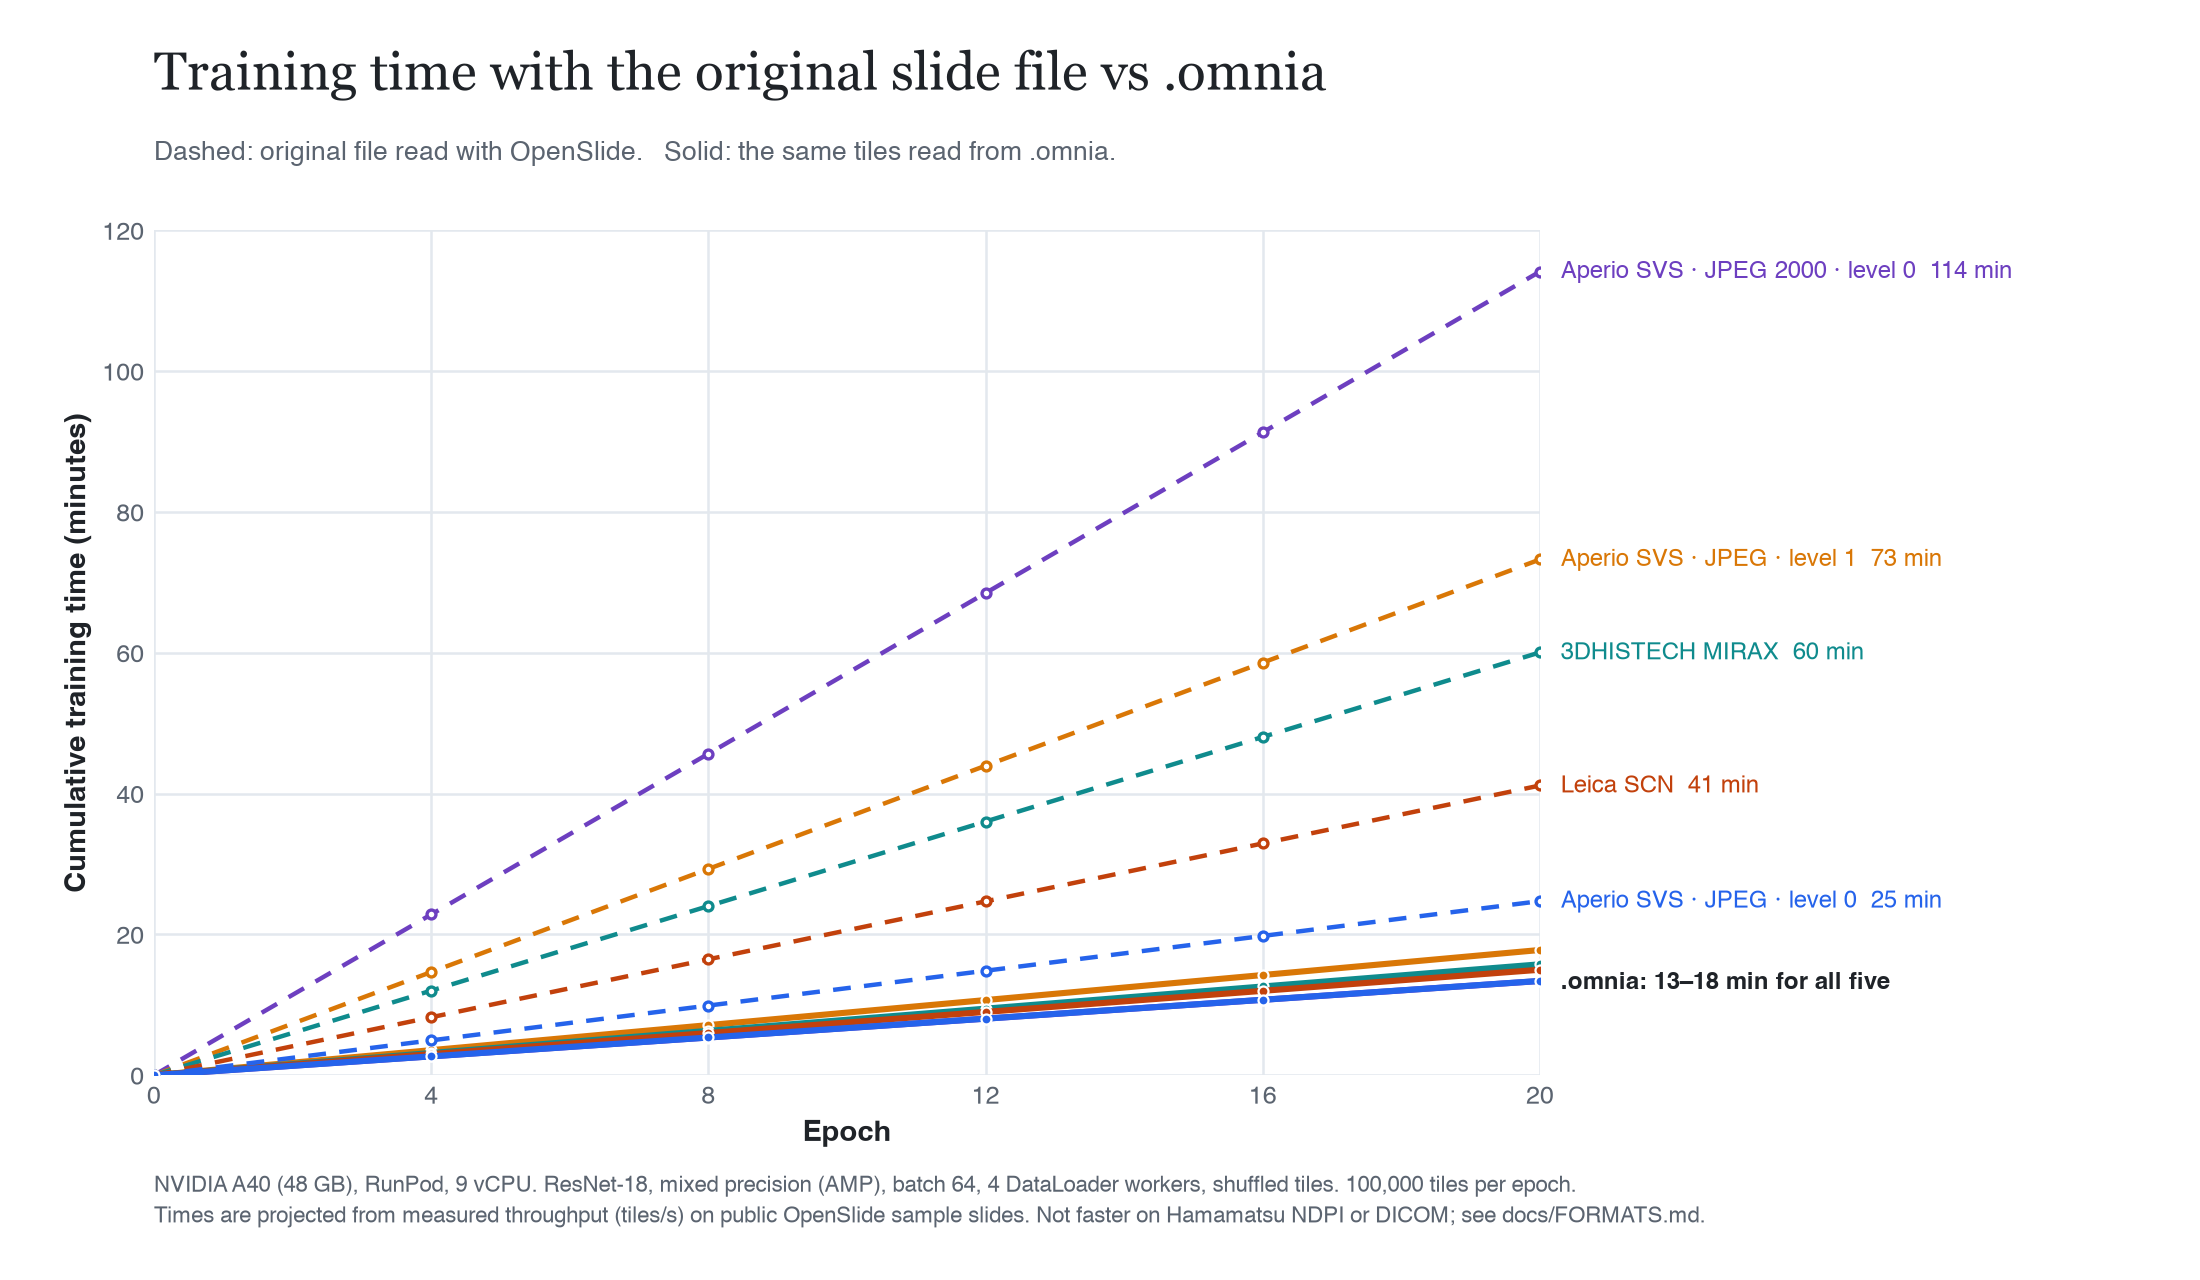
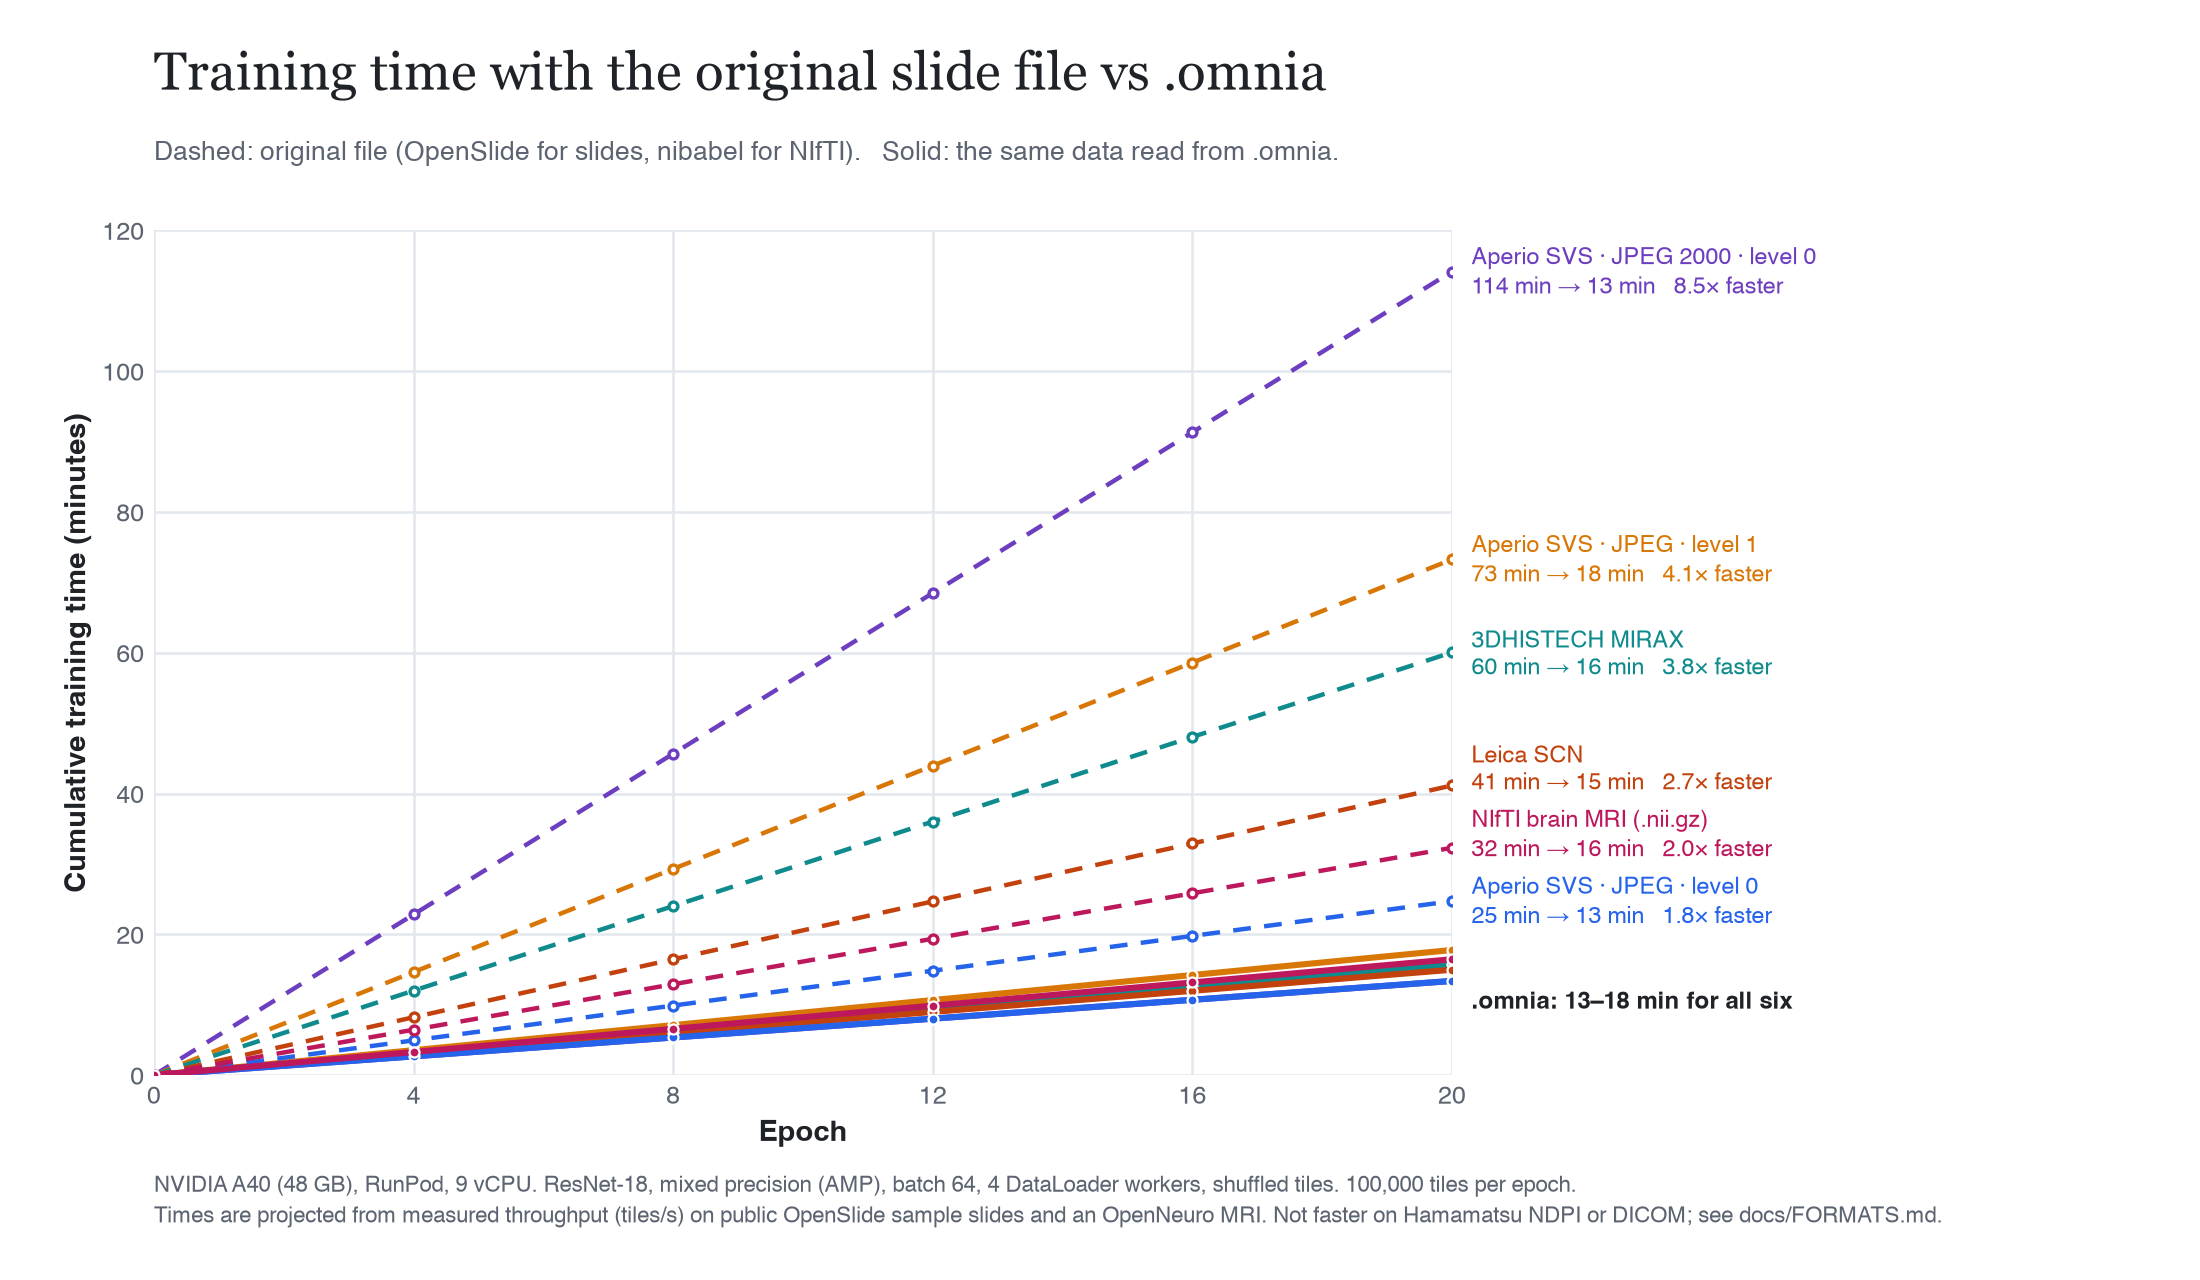
Epoch charts: x-faster labels, time taken, NIfTI row, DICOM/NIfTI read-speed chart

diff --git a/benchmarks/make_epoch_charts.py b/benchmarks/make_epoch_charts.py
@@ -33,6 +33,13 @@ ROWS = [
     ("3DHISTECH MIRAX", 555, 2116, "#0f8b8d"),
     ("Leica SCN", 810, 2225, "#c2410c"),
     ("Aperio SVS · JPEG · level 0", 1348, 2489, "#2563eb"),
+    ("NIfTI brain MRI (.nii.gz)", 1032, 2024, "#be185d"),
+]
+# single-thread random read, items/s, mean of two runs: (label, native reader, native, omnia)
+READ = [
+    ("NIfTI MRI slice\n(nibabel, .nii.gz)", 15.6, 20331),
+    ("DICOM MR series\n(pydicom)", 821, 27640),
+    ("DICOM CT series\n(pydicom)", 844, 16422),
 ]
 INK, MUTED, GRID = "#1f2328", "#5b6470", "#e3e8ee"
 
@@ -45,13 +52,19 @@ def minutes(rate):
 fig, ax = plt.subplots(figsize=(11, 6.4), dpi=200)
 fig.patch.set_facecolor("white")
 ep = list(range(0, EPOCHS + 1))
-for label, a, b, c in ROWS:
+# spread end labels so they never overlap (at least 7 minutes apart)
+ends = sorted(((EPOCHS * minutes(a), i) for i, (_, a, _, _) in enumerate(ROWS)))
+label_y, last = {}, -1e9
+for yv, i in ends:
+    last = max(yv, last + 9.5); label_y[i] = last
+for idx, (label, a, b, c) in enumerate(ROWS):
     orig = [e * minutes(a) for e in ep]
     omni = [e * minutes(b) for e in ep]
     ax.plot(ep, orig, color=c, lw=1.6, ls=(0, (4, 3)), marker="o", ms=3.2, markevery=4, mfc="white", mew=1.2)
     ax.plot(ep, omni, color=c, lw=2.2, marker="o", ms=3.6, markevery=4, mfc=c, mec="white", mew=.8)
-    ax.text(EPOCHS + .3, orig[-1], f"{label}  {orig[-1]:.0f} min", va="center", fontsize=8.6, color=c)
-ax.text(EPOCHS + .3, max(EPOCHS * minutes(b) for _, _, b, _ in ROWS) - 3, ".omnia: 13–18 min for all five",
+    ax.text(EPOCHS + .3, label_y[idx], f"{label}\n{orig[-1]:.0f} min → {omni[-1]:.0f} min   {b / a:.1f}× faster",
+            va="center", fontsize=8.4, color=c, linespacing=1.25)
+ax.text(EPOCHS + .3, 12, ".omnia: 13–18 min for all six",
         va="top", fontsize=8.6, color=INK, fontweight="bold")
 ax.set_xlim(0, EPOCHS); ax.set_ylim(0, 120)
 ax.set_xticks(range(0, EPOCHS + 1, 4))
@@ -61,11 +74,11 @@ ax.grid(color=GRID, lw=.9); ax.set_axisbelow(True)
 for s in ax.spines.values():
     s.set_visible(False)
 ax.tick_params(colors=MUTED, length=0, labelsize=9)
-fig.subplots_adjust(left=.07, right=.70, top=.82, bottom=.16)
+fig.subplots_adjust(left=.07, right=.66, top=.82, bottom=.16)
 fig.text(.07, .93, "Training time with the original slide file vs .omnia", fontsize=19, color=INK, family=SERIF)
-fig.text(.07, .875, "Dashed: original file read with OpenSlide.   Solid: the same tiles read from .omnia.", fontsize=9.5, color=MUTED)
+fig.text(.07, .875, "Dashed: original file (OpenSlide for slides, nibabel for NIfTI).   Solid: the same data read from .omnia.", fontsize=9.5, color=MUTED)
 fig.text(.07, .045, f"{GPU}. {MODEL}. {TILES_PER_EPOCH:,} tiles per epoch.\n"
-         "Times are projected from measured throughput (tiles/s) on public OpenSlide sample slides. "
+         "Times are projected from measured throughput (tiles/s) on public OpenSlide sample slides and an OpenNeuro MRI. "
          "Not faster on Hamamatsu NDPI or DICOM; see docs/FORMATS.md.", fontsize=8, color=MUTED, linespacing=1.5)
 fig.savefig(OUT / "epoch_time_lines.png", facecolor="white")
 plt.close(fig)
@@ -73,7 +86,7 @@ plt.close(fig)
 # ── 2. Bar charts: epoch time and throughput, values on top ──────────────
 fig, (a1, a2) = plt.subplots(1, 2, figsize=(13, 6), dpi=200, gridspec_kw={"wspace": .22})
 fig.patch.set_facecolor("white")
-short = ["SVS\nJPEG 2000\nlevel 0", "SVS\nJPEG\nlevel 1", "MIRAX", "Leica\nSCN", "SVS\nJPEG\nlevel 0"]
+short = ["SVS\nJPEG 2000\nlevel 0", "SVS\nJPEG\nlevel 1", "MIRAX", "Leica\nSCN", "SVS\nJPEG\nlevel 0", "NIfTI\nMRI"]
 x = range(len(ROWS)); w = .38
 for ax, title, key, unit in ((a1, "Time per epoch (minutes, lower is better)", "min", ""),
                              (a2, "Throughput (tiles per second, higher is better)", "rate", "")):
@@ -84,6 +97,8 @@ for ax, title, key, unit in ((a1, "Time per epoch (minutes, lower is better)", "
         fmt = (lambda v: f"{v:.1f}") if key == "min" else (lambda v: f"{v:,.0f}")
         ax.text(i - w / 2, va, fmt(va), ha="center", va="bottom", fontsize=9, color=MUTED, fontweight="bold")
         ax.text(i + w / 2, vb, fmt(vb), ha="center", va="bottom", fontsize=9, color=INK, fontweight="bold")
+        top = max(va, vb) * 1.10 + (0.25 if key == "min" else 120)
+        ax.text(i, top, f"{b / a:.1f}× faster", ha="center", va="bottom", fontsize=9.5, color="#2563eb", fontweight="bold")
     ax.set_xticks(list(x), short, fontsize=9, color=INK)
     ax.set_title(title, loc="left", fontsize=11.5, color=INK, fontweight="bold", pad=12)
     ax.grid(axis="y", color=GRID); ax.set_axisbelow(True)
@@ -91,14 +106,35 @@ for ax, title, key, unit in ((a1, "Time per epoch (minutes, lower is better)", "
         ax.spines[s].set_visible(False)
     ax.spines["bottom"].set_color("#c9d1d9")
     ax.tick_params(axis="y", colors=MUTED, length=0, labelsize=8.5); ax.tick_params(axis="x", length=0)
-a1.set_ylim(0, 6.6); a2.set_ylim(0, 2900)
+a1.set_ylim(0, 7.2); a2.set_ylim(0, 3200)
 fig.legend(handles=[plt.Rectangle((0, 0), 1, 1, color="#b6bec9"), plt.Rectangle((0, 0), 1, 1, color="#2563eb")],
-           labels=["Original file (OpenSlide)", ".omnia"], loc="lower left", bbox_to_anchor=(.06, .02), ncol=2, frameon=False, fontsize=9.5)
+           labels=["Original file (OpenSlide / nibabel)", ".omnia"], loc="lower left", bbox_to_anchor=(.06, .02), ncol=2, frameon=False, fontsize=9.5)
 fig.text(.06, .94, "Epoch time and throughput: original slide file vs .omnia", fontsize=19, color=INK, family=SERIF)
 fig.text(.98, .035, f"{GPU} · {MODEL} · {TILES_PER_EPOCH:,} tiles/epoch", ha="right", fontsize=8, color=MUTED)
 fig.subplots_adjust(left=.06, right=.98, top=.82, bottom=.2)
 fig.savefig(OUT / "epoch_time_bars.png", facecolor="white")
 plt.close(fig)
+
+# ── 3. Read speed: DICOM and NIfTI (where the training loop was GPU-bound) ─
+fig, ax = plt.subplots(figsize=(11, 5), dpi=200); fig.patch.set_facecolor("white")
+for i, (label, a, b) in enumerate(READ[::-1]):
+    ax.barh(i + .19, a, .36, color="#b6bec9"); ax.barh(i - .19, b, .36, color="#2563eb")
+    ax.text(a * 1.15, i + .19, f"{a:,.0f}/s", va="center", fontsize=9, color=MUTED)
+    ax.text(b * 1.15, i - .19, f"{b:,.0f}/s", va="center", fontsize=9, color=INK, fontweight="bold")
+    ax.text(4.5e5, i, f"{b / a:,.0f}× faster", va="center", ha="right", fontsize=12, color="#2563eb", fontweight="bold")
+ax.set_xscale("log"); ax.set_xlim(5, 5e5)
+ax.set_yticks(range(len(READ)), [r[0] for r in READ[::-1]], fontsize=10, color=INK)
+ax.set_xlabel("Slices read per second, one thread, random order (log scale)", fontsize=9.5, color=MUTED)
+ax.grid(axis="x", color=GRID); ax.set_axisbelow(True)
+for sp in ax.spines.values():
+    sp.set_visible(False)
+ax.tick_params(colors=MUTED, length=0)
+fig.subplots_adjust(left=.2, right=.97, top=.8, bottom=.2)
+fig.text(.03, .91, "Reading DICOM and NIfTI: native library vs .omnia", fontsize=18, color=INK, family=SERIF)
+fig.text(.03, .855, "Grey: pydicom / nibabel reading the original files.  Blue: the same slices from .omnia. Bit-identical output.", fontsize=9.5, color=MUTED)
+fig.text(.03, .04, "Single-thread decode speed, mean of two runs on " + GPU + ". In a full ResNet-18 training loop with 4 workers the GPU was the limit,\n"
+         "so DICOM CT/MR training speed was the same with either format. DICOM whole-slide: no read-speed difference.", fontsize=8, color=MUTED, linespacing=1.5)
+fig.savefig(OUT / "read_speed_dicom_nifti.png", facecolor="white"); plt.close(fig)
 
 # ── JSON ─────────────────────────────────────────────────────────────────
 rows = []
@@ -120,5 +156,11 @@ for label, a, b, _ in ROWS:
     "samples": "public OpenSlide test slides: JP2K-33003-1.svs, CMU-1.svs, CMU-1.mrxs, Leica-1.scn",
     "not_faster_on": ["Hamamatsu NDPI (tie)", "DICOM CT and MR series (tie)", "DICOM whole-slide (slower on a 57-tile sample)"],
     "results": rows,
+    "nifti_note": "NIfTI native throughput differed between runs (369 and 1,695 slices/s), so its speed-up ranged 1.2x to 5.3x; the row uses the mean.",
+    "dicom": {
+        "training": "tie: CT 1,049 vs 921 slices/s, MR 1,847 vs 1,793 (GPU-bound); DICOM whole-slide slower on a 57-tile sample (1,191 vs 564)",
+        "single_thread_read_slices_per_s": [
+            {"format": r[0].replace("\n", " "), "native": r[1], "omnia": r[2], "speedup": round(r[2] / r[1], 1)} for r in READ],
+    },
 }, indent=2))
 print("ok")
